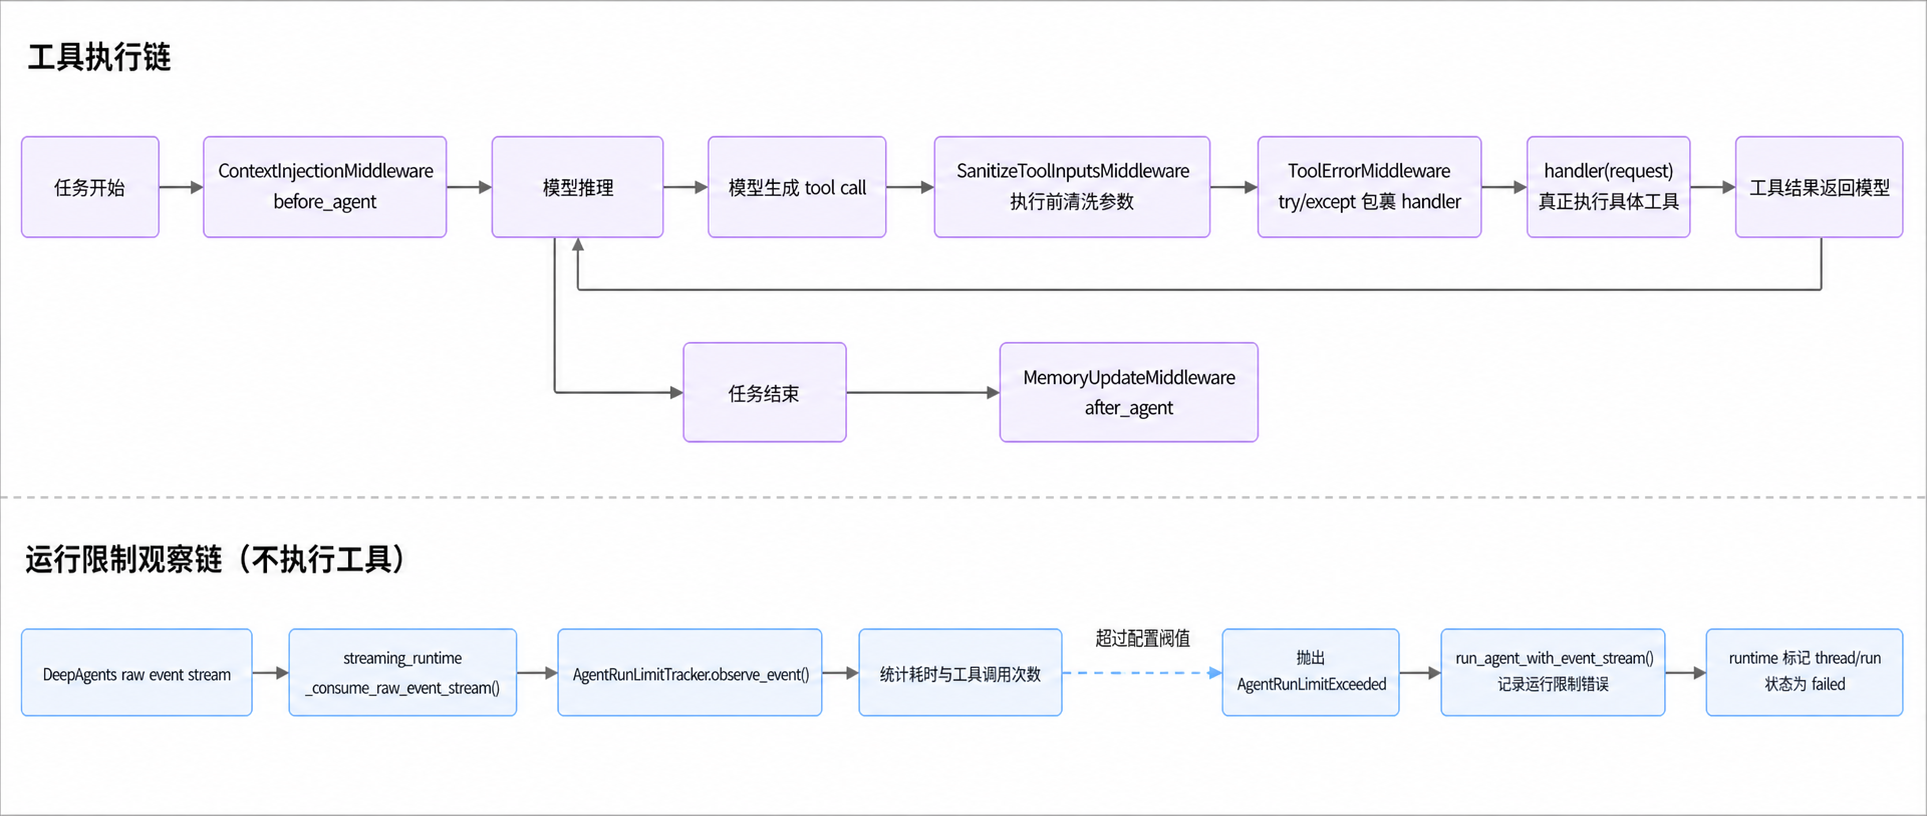
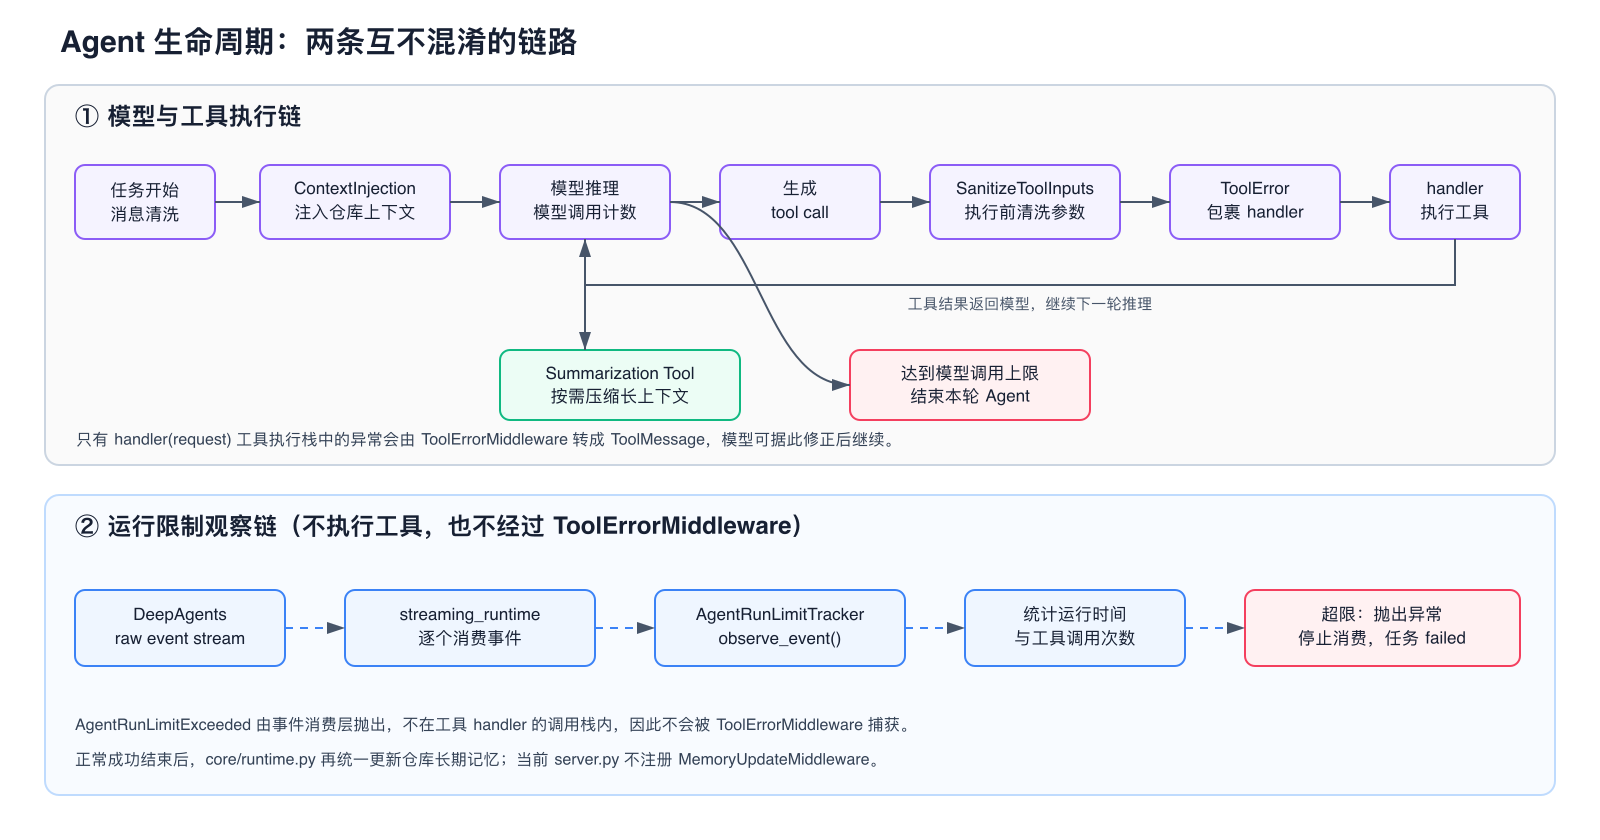
docs(review): 同步审查链路中文说明
- 更新代码导读、运行时、Agent 组装和工具包说明\n- 新增 reviewer_diff 调用时机与跨平台设计文档\n- 重绘中间件执行链和运行限制观察链\n- 明确 ToolError、运行超限和长期记忆写回边界

diff --git a/agent/core/middleware/中间件总览.md b/agent/core/middleware/中间件总览.md
@@ -14,7 +14,8 @@
 - 工具参数只有模型发起工具调用时才出现，因此使用 `wrap_tool_call` 前置处理。
 - 工具异常只有执行工具后才可能发生，因此通过 `wrap_tool_call` 包裹下游执行。
 - 工具调用次数和运行时间需要跨越整轮任务累计，因此通过事件流持续观察。
-- 最终结论在任务结束时才相对稳定，因此使用 `after_agent`。
+- 模型调用数由 `ModelCallLimitMiddleware` 在 Agent 图内部限制；运行时长和工具次数由事件流观察器限制。
+- 仓库长期记忆由 `core/runtime.py` 在任务成功后统一写回，当前不再注册 `MemoryUpdateMiddleware`。
 
 ## 2. 生命周期概览
 
@@ -23,15 +24,18 @@
 ```mermaid
 %%{init: {"themeVariables": {"fontSize": "18px"}, "flowchart": {"nodeSpacing": 32, "rankSpacing": 38}}}%%
 flowchart TB
-    A["任务开始"] --> B["ContextInjectionMiddleware<br/>before_agent：注入仓库上下文"]
-    B --> C["模型推理"]
+    A["任务开始"] --> A1["MessageSanitizeMiddleware<br/>清洗历史消息"]
+    A1 --> B["ContextInjectionMiddleware<br/>before_agent：注入仓库上下文"]
+    B --> C["模型推理<br/>ModelCallLimitMiddleware 计数"]
+    C -.->|上下文过长时主动调用| C1["SummarizationToolMiddleware<br/>compact_conversation"]
+    C1 -.-> C
     C -->|生成工具调用| D["模型生成 tool call"]
     D --> E["SanitizeToolInputsMiddleware<br/>执行前清洗参数"]
     E --> F["ToolErrorMiddleware<br/>try/except 包裹 handler"]
     F --> G["handler(request)<br/>真正执行具体工具"]
     G -->|工具结果返回模型| C
     C -->|生成最终答复| H["任务结束"]
-    H --> I["MemoryUpdateMiddleware<br/>after_agent：更新长期记忆"]
+    H --> I["runtime 成功路径<br/>统一更新仓库长期记忆"]
 ```
 
 ### 2.2 运行限制异常链（不执行工具）
@@ -50,6 +54,8 @@ flowchart TB
 静态图片版（适用于不支持 Mermaid 的 Markdown 预览器）：
 
 ![中间件工具执行链与运行限制观察链](中间件拦截流程图.png)
+
+可缩放矢量源图为 `中间件执行链.svg`；PNG 与 SVG 表达的是同一条当前调用链。
 
 这里要特别区分：
 
@@ -83,11 +89,14 @@ DeepAgents 执行过程
 
 | 文件 | 谁注册/调用 | 什么时候真正调用 | 触发频率 | 主要职责 |
 |---|---|---|---:|---|
+| `message_sanitize.py` | server 注册，Agent 调用 | 模型读取历史消息之前 | 每轮 Agent | 清理无效或不兼容消息块 |
 | `context_injection.py` | server 注册，DeepAgents 调用 | 第一轮模型推理之前的 `before_agent` | 每轮 Agent 一次 | 注入仓库标识和长期记忆 |
 | `tool_sanitize.py` | server 注册，工具节点调用 | 每个工具真正执行前的 `wrap_tool_call` | 每次工具调用 | 清洗参数并拒绝越界输入 |
 | `tool_error.py` | server 注册，工具节点调用 | 参数清洗通过后，包裹实际工具执行 | 每次工具调用 | 捕获执行异常并返回错误消息 |
+| DeepAgents `SummarizationToolMiddleware` | server 注册，模型按需调用 | 模型决定压缩长上下文时 | 按需 | 提供显式会话压缩工具 |
+| LangChain `ModelCallLimitMiddleware` | server 注册，Agent 调用 | 每次模型调用时 | 每次模型调用 | 限制单轮模型调用次数 |
 | `run_limits.py` | streaming runtime 直接创建 | 事件消费者收到每个事件时；不执行工具 | 每个运行事件 | 观察并累计工具次数和运行时间 |
-| `memory_update.py` | server 注册，DeepAgents 调用 | Agent 产生最终状态后的 `after_agent` | 每轮 Agent 一次 | 兜底写回仓库长期记忆 |
+| `memory_update.py` | 当前未注册 | 无 | 无 | 保留的旧兜底实现；实际由 runtime 单点写回 |
 | `__init__.py` | Python 导入系统 | 导入 middleware 包时 | 每进程按导入缓存 | 声明 Python 包 |
 
 ## 4. ContextInjectionMiddleware注入仓库标识和长期记忆
@@ -177,23 +186,25 @@ ToolErrorMiddleware：错误已经发生后负责兜底恢复
 - 可针对 `coding`、`qa`、`planning` 等任务设置不同阈值。
 - 超限后可以主动终止事件流，控制费用和执行时间。
 
-## 8. MemoryUpdateMiddleware兜底写回仓库长期记忆
+## 8. 仓库长期记忆为何不再由中间件写回
 
 ### 8.1 触发点
 
-`MemoryUpdateMiddleware` 使用 `after_agent/aafter_agent`，在整轮 Agent 结束后执行。
+`MemoryUpdateMiddleware` 的实现仍在目录中，但当前没有加入 `server.py` 的 middleware 列表，
+因此 `after_agent/aafter_agent` 不会被调用。
 
 ### 8.2 为什么在任务结束后触发
 
-中间过程可能包含尚未验证的猜测、失败方案、临时工具输出和随后被推翻的阶段性结论。**任务结束后的最后一条 assistant 消息通常更接近稳定总结，因此更适合提炼长期记忆。**
+`core/runtime.py` 已掌握最终成功/失败状态和任务结果，只有成功路径才更新仓库长期记忆。
+把写回集中到 runtime 可以避免中间件与运行时重复写入，也避免失败任务沉淀不稳定结论。
 
 ### 8.3 设计收益
 
-- 每轮任务通常只写一次 Store。
+- 成功任务只写一次 Store。
 - 避免把完整对话和工具日志写入长期记忆。
 - 只提取最后一条 assistant 消息，降低过程噪声。
 - 写入前统一做敏感信息检查和 Token 脱敏。
-- 可作为主运行路径之外的兜底，避免新增入口忘记更新记忆。
+- 新增绕过 runtime 的执行入口时，必须显式决定是否接入记忆写回。
 
 ## 9. 为什么这种分层优于统一触发
 
@@ -228,8 +239,9 @@ ToolErrorMiddleware：错误已经发生后负责兜底恢复
 
 当前组件已经接入真实运行链路：
 
-- `agent/server.py:get_agent()` 把消息清洗、上下文注入、工具参数清洗、工具异常处理和记忆写回中间件传给 `create_deep_agent()`。
+- `agent/server.py:get_agent()` 把消息清洗、上下文注入、工具参数清洗、显式会话压缩、模型调用限制和工具异常处理传给 `create_deep_agent()`。
 - `agent/core/streaming_runtime.py:_consume_raw_event_stream()` 创建 `AgentRunLimitTracker`，并在消费每个事件前调用 `observe_event()`。
+- `agent/core/runtime.py` 在任务成功后统一更新仓库长期记忆，`MemoryUpdateMiddleware` 当前不注册。
 - `server.py` 还会根据任务类型设置 `LocalShellBackend.read_only`，权限限制不再只依赖提示词。
 
 ## 12. 当前实现中需要关注的问题
@@ -243,7 +255,7 @@ ToolErrorMiddleware：错误已经发生后负责兜底恢复
 
 ### 12.2 `memory_update.py`
 
-- runtime 成功路径和 middleware 兜底路径都可能尝试更新记忆，更新函数必须保持幂等和去重。
+- 当前只由 runtime 成功路径更新记忆；如果未来重新注册 middleware，必须先解决双写、幂等和失败任务污染问题。
 - 敏感信息判断宁可保守；扩展抽取规则时应同时补测试。
 
 ### 12.3 `tool_sanitize.py`

diff --git a/agent/tools/工具包总览.md b/agent/tools/工具包总览.md
@@ -28,6 +28,7 @@ flowchart LR
 
     B --> C["GitHub 工具<br/>github_tools.py"]
     B --> D["审查工具<br/>reviewer_tools.py"]
+    D --> N["diff 解析与位置校验<br/>reviewer_diff.py"]
     B --> E["网页读取工具<br/>fetch_url_tools.py"]
     B --> F["联网搜索工具<br/>web_search.py"]
 
@@ -61,6 +62,7 @@ flowchart LR
 | `fetch_url_tools.py` | Agent Tool | 读取网页并转换为 Markdown/文本 |
 | `safe_http.py` | 支撑模块 | SSRF 防护、DNS Pin 和安全重定向 |
 | `reviewer_tools.py` | Agent Tool | 写入和读取代码审查发现 |
+| `reviewer_diff.py` | 支撑模块 | 解析本地 Git diff，并校验 finding 是否位于真实变更行 |
 | `runtime_context.py` | 支撑模块 | 从 LangGraph Config 读取 `thread_id` 和 `task_kind` |
 
 ### 3.2 `agent.tools` 对外导出的工具
@@ -75,6 +77,9 @@ flowchart LR
 | `fetch_url_tools.py` | `fetch_url` | 读取公开网页并转换为文本 |
 | `reviewer_tools.py` | `add_review_finding` | 记录审查问题 |
 | `reviewer_tools.py` | `list_review_findings` | 列出审查问题 |
+| `reviewer_tools.py` | `load_default_review_rules` | 工作区规则缺失时读取内置兜底规则 |
+| `reviewer_tools.py` | `get_review_diff_summary` | 获取本地 diff、变更文件和新文件侧变更行 |
+| `reviewer_tools.py` | `validate_review_finding_location` | 重新读取同一 diff 并校验 finding 位置 |
 
 ### 3.3 文件与触发点对照
 
@@ -83,7 +88,8 @@ flowchart LR
 | 文件/函数 | 谁调用 | 什么时候调用 | 结果流向 | 模型可见 |
 |---|---|---|---|---|
 | `github_tools.py` | DeepAgents 工具节点 | coding 模型选择创建 PR 或评论时 | GitHub API、业务 Store、模型工具结果 | 是 |
-| `reviewer_tools.py` | DeepAgents 工具节点 | review 模型记录或查询 finding 时 | 业务 Store 和模型工具结果 | 是 |
+| `reviewer_tools.py` | DeepAgents 工具节点 | review 模型读取规则/diff、校验或保存 finding 时 | `reviewer_diff.py`、业务 Store 和模型工具结果 | 是 |
+| `reviewer_diff.py` | `reviewer_tools.py` | 获取 diff 或校验位置时 | `LocalShellBackend.run()` 和确定性解析结果 | 否 |
 | `fetch_url_tools.py` | DeepAgents 工具节点 | 模型拿到明确公开 URL 并决定读取时 | `safe_http.py`，随后返回网页文本 | 是 |
 | `web_search.py` | DeepAgents 工具节点 | 模型需要外部公开资料时 | 智谱搜索 API，随后返回摘要 | 是 |
 | `github_api.py` | `github_tools.py` | GitHub 工具已经通过权限检查后 | GitHub REST API | 否 |
@@ -212,12 +218,19 @@ Agent 工厂只需要依赖 `agent.tools`，不需要知道每个工具分别定
 
 ### 7.1 触发点
 
-`add_review_finding` 和 `list_review_findings` 都是 `@tool`：
+本模块的五个入口都是 `@tool`，按审查阶段调用：
 
-- 模型发现一个具体问题时调用 `add_review_finding`；
-- 模型准备汇总审查结果时调用 `list_review_findings`。
+1. 工作区规则缺失时调用 `load_default_review_rules`；
+2. 调用 `get_review_diff_summary` 获取变更范围；
+3. 发现问题后先调用 `validate_review_finding_location` 校验文件和行号；
+4. 校验通过后调用 `add_review_finding`；
+5. 最终报告前调用 `list_review_findings`，避免遗漏。
 
 它们不是每轮任务固定执行，而是由审查任务的实际进展触发。
+
+`get_review_diff_summary` 默认比较工作区与 `HEAD`，也支持 `base...head`。git ref
+通过白名单校验，路径统一转成正斜杠，因此 macOS 与 Windows 使用同一套 finding 规则。
+完整解析细节见 `reviewer_diff_说明.md`。
 
 ### 7.2 为什么使用结构化 Store
 

diff --git a/agent/tools/reviewer_diff_说明.md b/agent/tools/reviewer_diff_说明.md
@@ -1,0 +1,73 @@
+# reviewer_diff.py 说明：diff 解析与 finding 位置校验
+
+> 对应源码：`agent/tools/reviewer_diff.py`
+>
+> 上层模型工具：`agent/tools/reviewer_tools.py`
+
+## 文件定位
+
+Reviewer 不能只靠自然语言猜测文件名和行号。本文件把 `git diff` 转成稳定的
+`DiffSummary`，并判断 finding 是否真的落在本次变更文件和新文件侧变更行中。
+它是普通 Python 支撑模块，模型不会直接调用。
+
+## 什么时候调用
+
+| 函数 | 谁调用 | 调用时机 | 返回结果 |
+|---|---|---|---|
+| `get_local_diff_summary()` | `get_review_diff_summary`、`validate_review_finding_location` | Reviewer 获取范围或校验 finding 时 | `DiffSummary` |
+| `parse_unified_diff()` | `get_local_diff_summary()` | `git diff` 成功返回后 | 文件列表和各文件变更行 |
+| `validate_finding_location()` | `validate_review_finding_location` | 保存 finding 之前 | `(是否有效, 中文原因)` |
+| `_validate_git_ref()` | `get_local_diff_summary()` | 拼接命令之前 | 安全的 base/head，非法输入直接拒绝 |
+
+```mermaid
+flowchart LR
+    A["Reviewer 子 Agent"] --> B["get_review_diff_summary"]
+    B --> C["固定命令 git diff"]
+    C --> D["parse_unified_diff"]
+    D --> E["DiffSummary：文件 + 变更行"]
+    E --> F["分析风险"]
+    F --> G["validate_review_finding_location"]
+    G --> H{"文件和行号有效？"}
+    H -->|是| I["add_review_finding"]
+    H -->|否| J["修正位置或仅写入总结"]
+```
+
+## 数据结构
+
+- `DiffFile.path`：去掉 `a/`、`b/` 前缀并统一为正斜杠的仓库相对路径。
+- `DiffFile.changed_lines`：新文件侧新增或修改的行号；删除行没有新文件行号。
+- `DiffSummary.changed_file_paths`：本次 diff 的稳定文件集合。
+- `DiffSummary.changed_lines_for(path)`：按标准化路径读取变更行。
+- `DiffSummary.raw_diff`：原始文本；上层只向模型返回有长度限制的预览。
+
+## 命令与安全边界
+
+实际命令只有两种形态：
+
+```text
+git diff --unified=80 HEAD --
+git diff --unified=80 main...feature/review --
+```
+
+`base` 和 `head` 只允许 Git ref 常用字符，禁止空格、分号、管道等 Shell 片段；
+末尾 `--` 明确结束 ref，避免把输入误解释为路径。命令由本模块固定生成，Reviewer
+不能传入任意 Shell 命令。
+
+## macOS 与 Windows 兼容
+
+- 内部路径统一使用 `/`，输入的 `\` 会先标准化。
+- 含空格并被 Git 引号包裹的路径通过 `shlex` 解析，不使用平台相关的路径切分。
+- 仓库目录继续使用 `/projects/...` 虚拟路径，由 `LocalShellBackend` 映射到宿主机。
+- 文本由 Git 和 Python 处理，不依赖 Bash 管道、`sed` 或 Windows 批处理语法。
+
+## 校验限制
+
+- 行号只接受新增或修改行；纯删除问题应记录为文件级 finding，或在总结中说明。
+- 每次位置校验会重新读取同一 `base/head` 的 diff，避免把大段原始 diff 由模型原样回传。
+- 如果两次调用之间工作区发生变化，校验结果也会变化；Reviewer 是只读任务，正常流程中
+  不应主动修改工作区。
+
+## 相关测试
+
+- `tests/test_reviewer_diff.py`：含空格路径、Windows 反斜杠、行号校验、安全 ref 和固定命令。
+- `tests/test_github_api_read.py`：Reviewer 读取 PR 上下文时的鉴权、分页和评论端点。

diff --git a/agent/server_说明.md b/agent/server_说明.md
@@ -15,6 +15,9 @@
 | `_task_kind_from_config()` | `get_agent()` | Backend 创建后、工具注册前 | 决定只读状态、提示词和 GitHub 写工具范围 |
 | `_prepare_repo_backend_context()` | `get_agent()` | 本轮配置包含 `repo_url` 时 | 返回组合 Backend、记忆路径和预读内容 |
 | `create_repo_backend()` | `_prepare_repo_backend_context()` | 仓库记忆初始化后 | 把 `/memories/` 路由到 LangGraph Store |
+| `_general_purpose_subagent()` | `get_agent()` | 创建主 Agent 前 | 构建只读分析子 Agent |
+| `_code_reviewer_subagent()` | `get_agent()` | 创建主 Agent 前 | 构建只读 Reviewer 子 Agent及审查工具链 |
+| `_agent_filesystem_permissions()` | `get_agent()` | 调用 `create_deep_agent()` 时 | 声明主 Agent 虚拟目录读写边界 |
 
 ```text
 runtime._build_agent_for_runtime()
@@ -58,20 +61,34 @@ runtime._build_agent_for_runtime()
 
 ## 工具权限
 
-所有任务都可使用资料读取和审查记录工具。只有 `coding` 注册：
+所有任务都可使用资料读取、GitHub PR 上下文和审查工具。Reviewer 的典型顺序是：
+
+```text
+读取规则 -> 读取 GitHub PR 上下文（可选） -> 获取本地 diff
+        -> 校验 finding 文件/行号 -> 保存 finding -> 汇总 finding
+```
+
+只有 `coding` 注册以下远端写工具：
 
 - `open_github_pull_request`
 - `publish_github_pr_comment`
 
 远端写操作不注册给只读 Agent，比仅在提示词中要求“不要调用”更可靠。
 
+文件权限同样按任务类型生成：只有 `coding` 可以写 `/projects`；其他任务只能写
+`/reviews` 和 `/tmp`。`/memories` 对模型始终只读，由 runtime 在成功后统一更新。
+
 ## 中间件顺序
 
 1. `MessageSanitizeMiddleware`：清理不兼容的历史消息块。
 2. `ContextInjectionMiddleware`：注入仓库标识和长期记忆。
 3. `SanitizeToolInputsMiddleware`：在工具执行前清洗路径、URL 和整数参数。
-4. `ToolErrorMiddleware`：把工具异常转换成模型可处理的 `ToolMessage`。
-5. `MemoryUpdateMiddleware`：任务结束后兜底写回稳定结论。
+4. `SummarizationToolMiddleware`：注册显式压缩上下文工具，长任务需要时由 Agent 调用。
+5. `ModelCallLimitMiddleware`：限制单次运行的模型调用数，超限后结束本轮。
+6. `ToolErrorMiddleware`：把工具执行栈中的异常转换成模型可处理的 `ToolMessage`。
+
+`MemoryUpdateMiddleware` 文件仍保留，但当前没有在 `server.py` 注册。仓库记忆由
+`core/runtime.py` 在任务成功后统一更新，避免中间件和 runtime 双写。
 
 ## Backend 组合
 

diff --git a/README.md b/README.md
@@ -70,6 +70,7 @@ git@github.com:liqiangZzz/LQ_AICoding.git
 ### 5. 审查记录与运行事件
 
 - 结构化保存代码审查发现；
+- 支持只读 Reviewer 子 Agent、GitHub PR 上下文、确定性 diff 行号校验；
 - 将发现项与 LangGraph `thread_id` 关联；
 - 记录工具调用的开始、完成和失败状态；
 - 区分 coding、analysis、planning、qa、sync、inspect 等任务类型；
@@ -117,13 +118,15 @@ LQ_AICoding/
 │   │   ├── logging_config.py          # 日志初始化与轮转
 │   │   ├── task_intent.py             # 任务类型与只读权限判断
 │   │   └── events.py                  # Agent 运行事件记录
+│   ├── reviewer_rules/                # 内置代码审查兜底规则
 │   └── tools/
 │       ├── github_api.py              # GitHub REST API 底层封装
 │       ├── github_tools.py            # GitHub Agent 工具
 │       ├── fetch_url_tools.py         # 网页读取工具
 │       ├── web_search.py              # 联网搜索工具
 │       ├── safe_http.py               # SSRF 防护与安全重定向
-│       ├── reviewer_tools.py          # 代码审查记录工具
+│       ├── reviewer_tools.py          # 代码审查规则、diff 与 finding 工具
+│       ├── reviewer_diff.py           # diff 解析与 finding 位置校验
 │       └── runtime_context.py         # LangGraph 运行上下文
 ├── .env.example                       # 环境变量示例
 ├── .gitignore                         # 本机文件与敏感配置忽略规则

diff --git a/agent/README_代码导读.md b/agent/README_代码导读.md
@@ -22,6 +22,7 @@
 | `agent/store/sqlite_store.py` | `agent/store/sqlite_store_说明.md` |
 | `agent/core/middleware/*.py` | `agent/core/middleware/中间件总览.md` |
 | `agent/tools/*.py` | `agent/tools/工具包总览.md` |
+| `agent/tools/reviewer_diff.py` | `agent/tools/reviewer_diff_说明.md` |
 
 ## 推荐阅读顺序
 
@@ -31,6 +32,7 @@
 4. `agent/server.py`：真正组装 DeepAgent，包括模型、工具、中间件、后端和持久化组件。
 5. `agent/core/middleware/中间件总览.md`：读完 `server.py` 后阅读，理解 Agent 构建时注册的上下文注入、参数清洗、异常处理和记忆写回分别在什么时候触发。
 6. `agent/tools/工具包总览.md`：理解中间件之后阅读，了解模型能调用哪些 GitHub、搜索、网页读取和审查工具，以及工具如何访问运行上下文和业务 Store。
+   - 正在定位 Reviewer 的文件和行号校验时，再读 `agent/tools/reviewer_diff_说明.md`。
 7. `agent/backends/local_shell.py`：文件与命令执行边界，也是 macOS/Windows 兼容的核心。
 8. `agent/core/streaming_runtime.py`：消费模型事件流并转换成前端可展示的运行事件。
 9. `agent/store/sqlite_store.py`：任务、运行、事件、仓库映射和审查结果的业务数据库。

diff --git a/agent/core/runtime_说明.md b/agent/core/runtime_说明.md
@@ -123,10 +123,13 @@ LangGraph Store 为 DeepAgents 提供仓库级长期记忆：
 - `qa`
 - `sync`
 - `inspect`
+- `review`
 
-当前没有独立的 `review` task_kind。代码审查可通过只读分析类任务使用 reviewer tools 记录 findings。
+`review` 是独立的只读任务类型，可以调用 Reviewer 子 Agent、diff 校验和 finding 工具，
+但不能修改源码、提交、推送或创建 Pull Request。
 
-任务分类由 `task_intent.py` 中的本地关键词规则完成，不调用模型。这使权限边界可预测，但也意味着路由精度取决于关键词是否覆盖用户表达。
+任务分类先由 `task_intent.py` 的确定性规则识别明显意图；需要进一步判断时再进入
+模型分类流程。无论分类来源是什么，最终权限仍由 `server.py` 和 Backend 强制执行。
 
 ---
 
